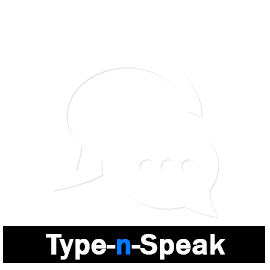
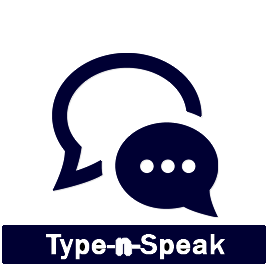
Added particle js animation for better look

Changed region(s): [[0.0, 0.8296, 1.0, 0.9778], [0.4148, 0.4444, 0.8296, 0.8], [0.1778, 0.1778, 0.7704, 0.7111]]

diff --git a/public/js/particles.min.js b/public/js/particles.min.js
@@ -1,0 +1,9 @@
+/*!
+ * A lightweight, dependency-free and responsive javascript plugin for particle backgrounds.
+ *
+ * @author Marc Bruederlin <hello@marcbruederlin.com>
+ * @version 2.2.3
+ * @license MIT
+ * @see https://github.com/marcbruederlin/particles.js
+ */
+var Particles=function(e,t){"use strict";var n,i={};function o(e,t){return e.x<t.x?-1:e.x>t.x?1:e.y<t.y?-1:e.y>t.y?1:0}return(n=function(){return function(){var e=this;e.defaults={responsive:null,selector:null,maxParticles:100,sizeVariations:3,showParticles:!0,speed:.5,color:"#fff",minDistance:120,connectParticles:!1},e.element=null,e.context=null,e.ratio=null,e.breakpoints=[],e.activeBreakpoint=null,e.breakpointSettings=[],e.originalSettings=null,e.storage=[],e.usingPolyfill=!1}}()).prototype.init=function(e){var t=this;return t.options=t._extend(t.defaults,e),t.originalSettings=JSON.parse(JSON.stringify(t.options)),t._animate=t._animate.bind(t),t._initializeCanvas(),t._initializeEvents(),t._registerBreakpoints(),t._checkResponsive(),t._initializeStorage(),t._animate(),t},n.prototype.destroy=function(){var t=this;t.storage=[],t.element.remove(),e.removeEventListener("resize",t.listener,!1),e.clearTimeout(t._animation),cancelAnimationFrame(t._animation)},n.prototype._initializeCanvas=function(){var n,i,o=this;if(!o.options.selector)return console.warn("particles.js: No selector specified! Check https://github.com/marcbruederlin/particles.js#options"),!1;o.element=t.querySelector(o.options.selector),o.context=o.element.getContext("2d"),n=e.devicePixelRatio||1,i=o.context.webkitBackingStorePixelRatio||o.context.mozBackingStorePixelRatio||o.context.msBackingStorePixelRatio||o.context.oBackingStorePixelRatio||o.context.backingStorePixelRatio||1,o.ratio=n/i,o.element.width=o.element.offsetParent?o.element.offsetParent.clientWidth*o.ratio:o.element.clientWidth*o.ratio,o.element.offsetParent&&"BODY"===o.element.offsetParent.nodeName?o.element.height=e.innerHeight*o.ratio:o.element.height=o.element.offsetParent?o.element.offsetParent.clientHeight*o.ratio:o.element.clientHeight*o.ratio,o.element.style.width="100%",o.element.style.height="100%",o.context.scale(o.ratio,o.ratio)},n.prototype._initializeEvents=function(){var t=this;t.listener=function(){t._resize()}.bind(this),e.addEventListener("resize",t.listener,!1)},n.prototype._initializeStorage=function(){var e=this;e.storage=[];for(var t=e.options.maxParticles;t--;)e.storage.push(new i(e.context,e.options))},n.prototype._registerBreakpoints=function(){var e,t,n,i=this,o=i.options.responsive||null;if("object"==typeof o&&null!==o&&o.length){for(e in o)if(n=i.breakpoints.length-1,t=o[e].breakpoint,o.hasOwnProperty(e)){for(;n>=0;)i.breakpoints[n]&&i.breakpoints[n]===t&&i.breakpoints.splice(n,1),n--;i.breakpoints.push(t),i.breakpointSettings[t]=o[e].options}i.breakpoints.sort(function(e,t){return t-e})}},n.prototype._checkResponsive=function(){var t,n=this,i=!1,o=e.innerWidth;if(n.options.responsive&&n.options.responsive.length&&null!==n.options.responsive){for(t in i=null,n.breakpoints)n.breakpoints.hasOwnProperty(t)&&o<=n.breakpoints[t]&&(i=n.breakpoints[t]);null!==i?(n.activeBreakpoint=i,n.options=n._extend(n.options,n.breakpointSettings[i])):null!==n.activeBreakpoint&&(n.activeBreakpoint=null,i=null,n.options=n._extend(n.options,n.originalSettings))}},n.prototype._refresh=function(){this._initializeStorage(),this._draw()},n.prototype._resize=function(){var t=this;t.element.width=t.element.offsetParent?t.element.offsetParent.clientWidth*t.ratio:t.element.clientWidth*t.ratio,t.element.offsetParent&&"BODY"===t.element.offsetParent.nodeName?t.element.height=e.innerHeight*t.ratio:t.element.height=t.element.offsetParent?t.element.offsetParent.clientHeight*t.ratio:t.element.clientHeight*t.ratio,t.context.scale(t.ratio,t.ratio),clearTimeout(t.windowDelay),t.windowDelay=e.setTimeout(function(){t._checkResponsive(),t._refresh()},50)},n.prototype._animate=function(){var t=this;t._draw(),t._animation=e.requestAnimFrame(t._animate)},n.prototype.resumeAnimation=function(){this._animation||this._animate()},n.prototype.pauseAnimation=function(){var t=this;if(t._animation){if(t.usingPolyfill)e.clearTimeout(t._animation);else(e.cancelAnimationFrame||e.webkitCancelAnimationFrame||e.mozCancelAnimationFrame)(t._animation);t._animation=null}},n.prototype._draw=function(){var t=this,n=t.element,i=n.offsetParent?n.offsetParent.clientWidth:n.clientWidth,r=n.offsetParent?n.offsetParent.clientHeight:n.clientHeight,a=t.options.showParticles,s=t.storage;n.offsetParent&&"BODY"===n.offsetParent.nodeName&&(r=e.innerHeight),t.context.clearRect(0,0,n.width,n.height),t.context.beginPath();for(var l=s.length;l--;){var c=s[l];a&&c._draw(),c._updateCoordinates(i,r)}t.options.connectParticles&&(s.sort(o),t._updateEdges())},n.prototype._updateEdges=function(){for(var e=this,t=e.options.minDistance,n=Math.sqrt,i=Math.abs,o=e.storage,r=o.length,a=0;a<r;a++)for(var s=o[a],l=a+1;l<r;l++){var c,f=o[l],p=s.x-f.x,h=s.y-f.y;if(c=n(p*p+h*h),i(p)>t)break;c<=t&&e._drawEdge(s,f,1.2-c/t)}},n.prototype._drawEdge=function(e,t,n){var i=this,o=i.context.createLinearGradient(e.x,e.y,t.x,t.y),r=this._hex2rgb(e.color),a=this._hex2rgb(t.color);o.addColorStop(0,"rgba("+r.r+","+r.g+","+r.b+","+n+")"),o.addColorStop(1,"rgba("+a.r+","+a.g+","+a.b+","+n+")"),i.context.beginPath(),i.context.strokeStyle=o,i.context.moveTo(e.x,e.y),i.context.lineTo(t.x,t.y),i.context.stroke(),i.context.fill(),i.context.closePath()},n.prototype._extend=function(e,t){return Object.keys(t).forEach(function(n){e[n]=t[n]}),e},n.prototype._hex2rgb=function(e){var t=/^#?([a-f\d]{2})([a-f\d]{2})([a-f\d]{2})$/i.exec(e);return t?{r:parseInt(t[1],16),g:parseInt(t[2],16),b:parseInt(t[3],16)}:null},(i=function(n,i){var o=this,r=Math.random,a=i.speed,s=i.color instanceof Array?i.color[Math.floor(Math.random()*i.color.length)]:i.color;o.context=n,o.options=i;var l=t.querySelector(i.selector);o.x=l.offsetParent?r()*l.offsetParent.clientWidth:r()*l.clientWidth,l.offsetParent&&"BODY"===l.offsetParent.nodeName?o.y=r()*e.innerHeight:o.y=l.offsetParent?r()*l.offsetParent.clientHeight:r()*l.clientHeight,o.vx=r()*a*2-a,o.vy=r()*a*2-a,o.radius=r()*r()*i.sizeVariations,o.color=s,o._draw()}).prototype._draw=function(){var e=this;e.context.save(),e.context.translate(e.x,e.y),e.context.moveTo(0,0),e.context.beginPath(),e.context.arc(0,0,e.radius,0,2*Math.PI,!1),e.context.fillStyle=e.color,e.context.fill(),e.context.restore()},i.prototype._updateCoordinates=function(e,t){var n=this,i=n.x+this.vx,o=n.y+this.vy,r=n.radius;i+r>e?i=r:i-r<0&&(i=e-r),o+r>t?o=r:o-r<0&&(o=t-r),n.x=i,n.y=o},e.requestAnimFrame=function(){var t=e.requestAnimationFrame||e.webkitRequestAnimationFrame||e.mozRequestAnimationFrame;return t||(this._usingPolyfill=!0,function(t){return e.setTimeout(t,1e3/60)})}(),new n}(window,document);!function(){"use strict";"function"==typeof define&&define.amd?define("Particles",function(){return Particles}):"undefined"!=typeof module&&module.exports?module.exports=Particles:window.Particles=Particles}();

diff --git a/public/index.html b/public/index.html
@@ -10,14 +10,16 @@
     <link rel="stylesheet" href="https://stackpath.bootstrapcdn.com/bootstrap/4.1.3/css/bootstrap.min.css" integrity="sha384-MCw98/SFnGE8fJT3GXwEOngsV7Zt27NXFoaoApmYm81iuXoPkFOJwJ8ERdknLPMO"
         crossorigin="anonymous">
     <link rel="stylesheet" type="text/css" href="css/style.css">
+    <script src="./js/particles.min.js"></script>
 </head>
 
 <body >
+
     <div class="container text-center">
         <div class="row">
             <div class="col-md-6 mx-auto">
-               <form class=" text-white" style="background:#FF7417">
-                <img class="mb-5 mt-5" style="background:#FF7417" src="img/speech.png" alt="">
+               <form class=" text-white" >
+                <img class="mb-5 mt-5"src="img/speech.png" alt="">
                     <div class="form-group">
                         <textarea class="form-control form-control-lg" placeholder="Type something..." id="text-input"></textarea>
                     </div>
@@ -47,7 +49,7 @@
 
 
      <p id="copyright">Copyright &copy Anish 2018</p>
-
+     <canvas class="background"></canvas>
 
     <script src="https://code.jquery.com/jquery-3.3.1.slim.min.js" integrity="sha384-q8i/X+965DzO0rT7abK41JStQIAqVgRVzpbzo5smXKp4YfRvH+8abtTE1Pi6jizo"
         crossorigin="anonymous"></script>
@@ -55,6 +57,8 @@
         crossorigin="anonymous"></script>
     <script src="https://stackpath.bootstrapcdn.com/bootstrap/4.1.3/js/bootstrap.min.js" integrity="sha384-ChfqqxuZUCnJSK3+MXmPNIyE6ZbWh2IMqE241rYiqJxyMiZ6OW/JmZQ5stwEULTy"
         crossorigin="anonymous"></script>
+        
+        <script src="./js/app.js"></script>
         
         <script src="js/main.js"></script>
 </body>

diff --git a/public/js/main.js b/public/js/main.js
@@ -65,8 +65,11 @@ const getVoices = () => {
 
     if (TextToSpeech !=='') {
 
-    textForm.style.background = "url('../img/wave.gif')";
-    img.style.background = "black ";
+    textForm.style.background = "url('../img/wave1.gif')";
+    img.style.background = "#fff ";
+    textForm.style.backgroundRepeat = "no-repeat";
+    textForm.style.backgroundSize = "100% 100%";
+    
 
 		const utterence = new SpeechSynthesisUtterance();
 		
@@ -93,8 +96,8 @@ const getVoices = () => {
 
 					        window.speechSynthesis.speak(utterence);
 			    utterence.onend = e => {
-			    	textForm.style.background = '#FF7417';
-            img.style.background = "#FF7417 ";
+			textForm.style.background = '#FFF';
+            img.style.background = "#FFF ";
 			    }
                   //}
         }

diff --git a/public/css/style.css b/public/css/style.css
@@ -1,17 +1,27 @@
 body{
 	padding: 10px;
-	background: url('../img/background.png');
+	/* background: url('../img/background.png'); */
 	background-size:100% 100%;
+	background: #000033;
 }
+.background {
+	position: absolute;
+	display: block;
+	top: 0;
+	left: 0;
+	z-index: -1;
+  }
 form {
 	padding: 5px;
 	border-radius:6px;
+	background: #fff;
+	background-repeat: no-repeat;
 }
 
 #text-input {
   background:none;
   border:none;
-  border-bottom: 2px solid #fff;
+  border-bottom: 2px solid #000;
 }
 input[type=submit] {
 	background: black;

diff --git a/public/js/app.js b/public/js/app.js
@@ -1,0 +1,5 @@
+window.onload = function() {
+  Particles.init({
+    selector: '.background'
+  });
+};
